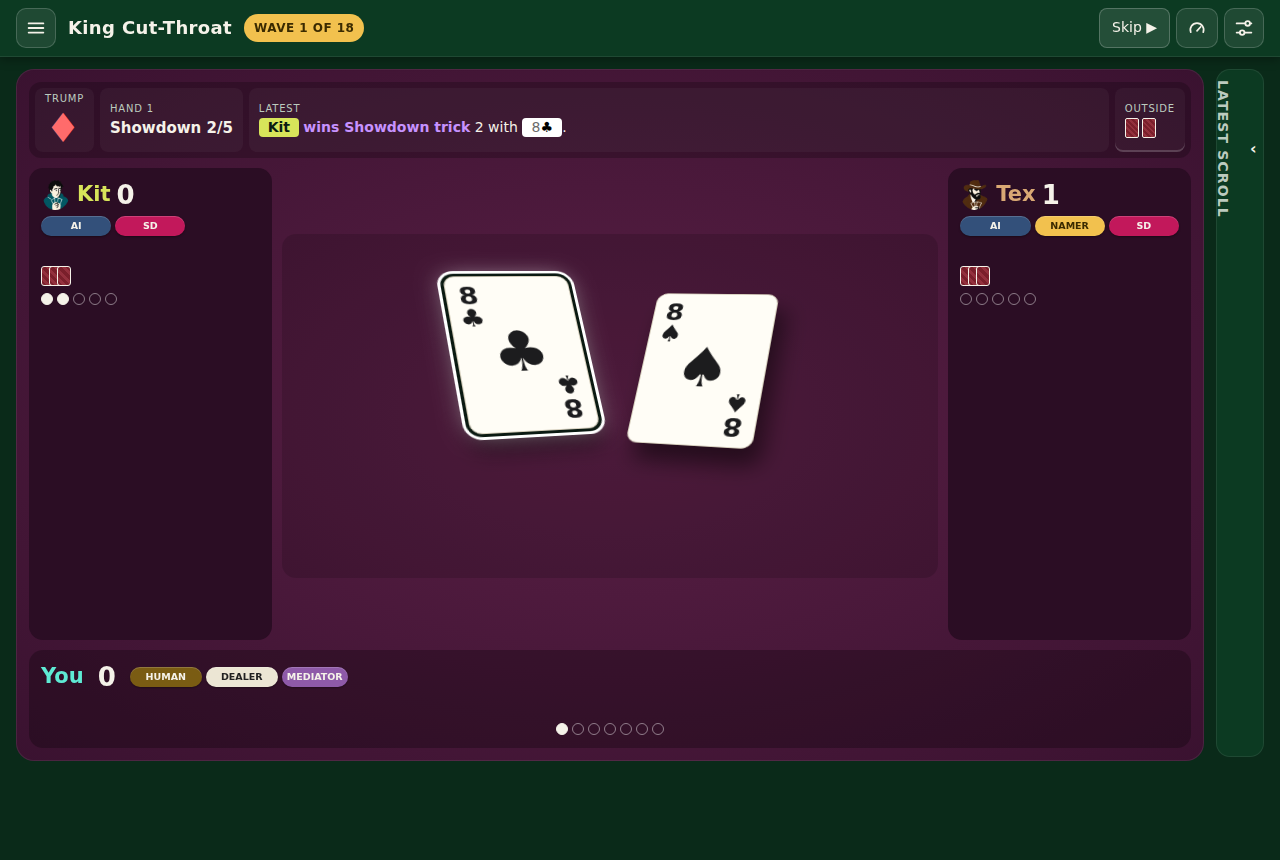
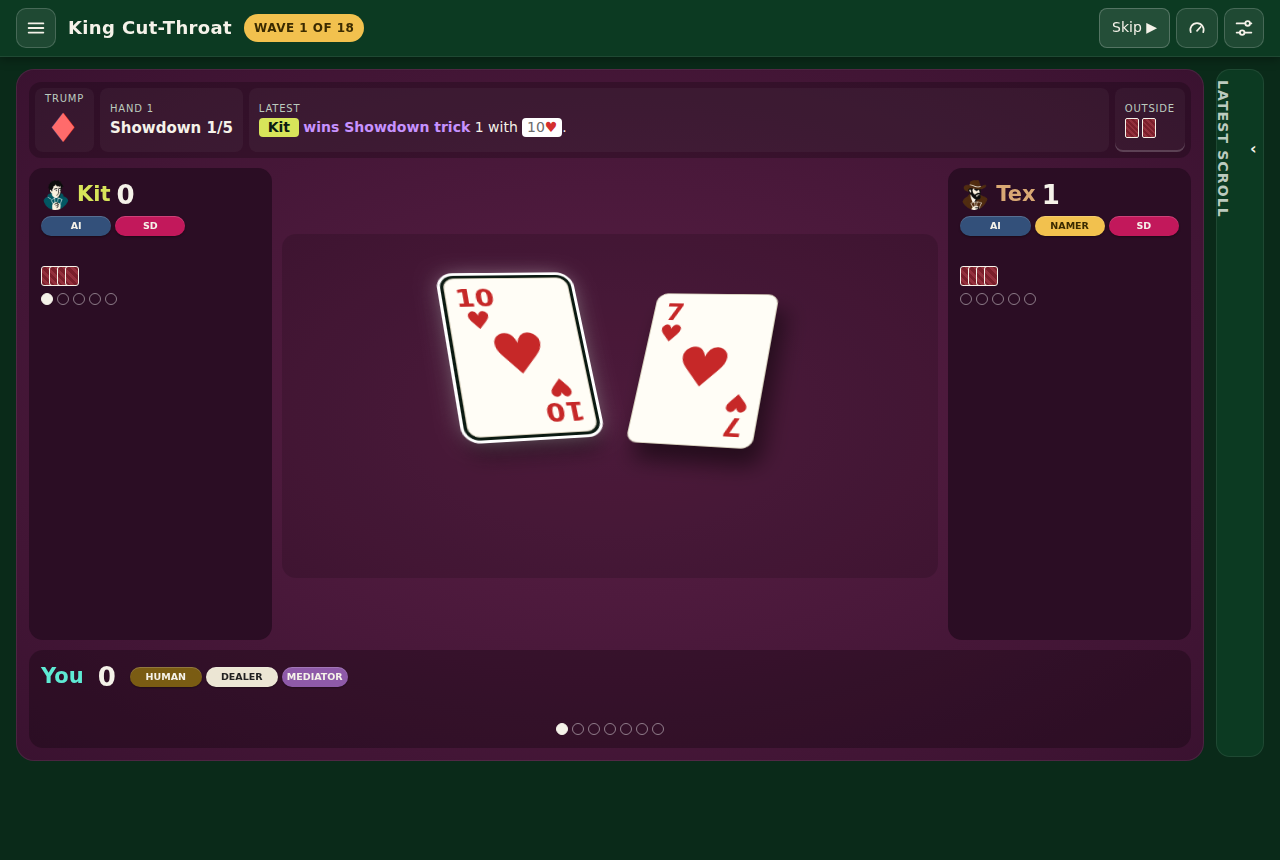
v3: fix trick-end card layering; add a layering check
At a trick's end the engine moves the played cards to lastTrick, so the
mockup lost the play order and stacked the cards in page order (your
card could cover a later one). The stacking now reads lastTrick at a
trick's end; the winning card stays lifted on top.

layering.js renders 84 trick moments from six games (mid-trick, trick
end, Showdown) and samples the pixels where cards overlap: 360 samples,
0 wrong. Against the old layer it flags the 4 trick ends that were
stacked wrong.

Claude-Session: https://claude.ai/code/session_01QkpazkapUFZWg4SWZB1dDA

diff --git a/mockups/layering.js b/mockups/layering.js
@@ -1,0 +1,53 @@
+/* Check: cards layer in play order. For many trick moments across seeds (mid-trick, trick end, Showdown), render the
+   v3 layer and sample the pixel where each pair of cards overlaps: the card on top there must be the one played later.
+   At a trick's end the winning card is lifted above all. Your empty slot, still to play, sits above every card.
+   Run: cd mockups && NODE_PATH=$(npm root -g) PW_CHROMIUM=/opt/pw-browsers/chromium node layering.js */
+const { serve, launch, openPage, run } = require('../tests/lib/browser');
+const fs = require('fs'), ADV = fs.readFileSync(__dirname + '/' + (process.env.LAYER || 'advanced3.js'), 'utf8');
+(async () => {
+  const srv = await serve(), browser = await launch(); let fails = 0, checks = 0, moments = 0;
+  try {
+    const { page } = await openPage(browser, srv.url);
+    const view = await browser.newPage(); await view.setViewportSize({ width: 1280, height: 860 });
+    for (let seed = 1; seed <= 6; seed++) {
+      await run(page, `KCT.App.newGame(${seed}, 1); speed('instant');`, null, ['drive.js']);
+      for (let k = 0; k < 14; k++) {
+        const r = await run(page, `
+          const ok = () => { const s = app.state; return (s.phase === P.TRICK_PLAY || s.phase === P.SHOWDOWN_PLAY) && s.trick.plays.length >= 1
+            || s.phase === P.TRICK_DONE || s.phase === P.SHOWDOWN_TRICK_DONE; };
+          const why = await drive(ok, 60000); if (why !== 'stop') return { why };
+          speed('slow'); await sleep(250);
+          const s = app.state, html = '<!doctype html>' + document.documentElement.outerHTML.replace(/<script[\\s\\S]*?<\\/script>/g, '').replace(/ enter"/g, '"');
+          const done = /rickDone/.test(s.phase), plays = done ? s.lastTrick.plays : s.trick.plays;
+          const out = { why, phase: s.phase, plays: plays.map(p => p.player), winner: done ? s.lastTrick.winner : null, html,
+            state: { trump: s.trump, handNumber: s.handNumber, trickNumber: s.trickNumber, trick: s.trick, lastTrick: s.lastTrick, phase: s.phase, myOut: [], sdDiscards: 0 } };
+          speed('instant'); const v0 = s.version; await drive(() => app.state.version > v0 + 1, 60000);
+          return out;`, null, ['drive.js']);
+        if (r.why !== 'stop') break;
+        await view.setContent(r.html.replace('<head>', '<head><base href="' + srv.url + '">'));
+        const res = await view.evaluate(([src, st, plays, winner]) => {
+          window.KCT = { App: { app: { state: st } } }; window.__collapsed = true; new Function(src)();
+          const el = p => { const e = document.querySelector('.trick .slot-' + p + ' .card') || document.querySelector('.trick .slot-' + p + ' .empty');
+            return e && getComputedStyle(e).visibility !== 'hidden' && e.offsetWidth ? e : null; };
+          // Expected stacking: play order; the winner (trick end) on top; an empty slot (still to play) on top.
+          const order = plays.slice(); if (winner != null) { order.splice(order.indexOf(winner), 1); order.push(winner); }
+          for (const p of [0, 1, 2]) if (!order.includes(p) && el(p)) order.push(p);
+          const bad = []; let n = 0;
+          for (let i = 0; i < order.length; i++) for (let j = i + 1; j < order.length; j++) {
+            const a = el(order[i]), b = el(order[j]); if (!a || !b) continue;
+            const ra = a.getBoundingClientRect(), rb = b.getBoundingClientRect();
+            const x0 = Math.max(ra.left, rb.left), x1 = Math.min(ra.right, rb.right), y0 = Math.max(ra.top, rb.top), y1 = Math.min(ra.bottom, rb.bottom);
+            if (x1 - x0 < 6 || y1 - y0 < 6) continue;
+            const pts = [[(x0 + x1) / 2, (y0 + y1) / 2], [x0 + 3, y0 + 3], [x1 - 3, y1 - 3]];
+            for (const [x, y] of pts) { const hit = document.elementFromPoint(x, y); const top = hit && hit.closest('.slot');
+              if (!top || !(a.closest('.slot') === top || b.closest('.slot') === top)) continue; n++;
+              if (top !== b.closest('.slot')) { bad.push('seat ' + order[i] + ' over seat ' + order[j]); break; } }
+          }
+          return { n, bad };
+        }, [ADV, r.state, r.plays, r.winner]);
+        moments++; checks += res.n; if (res.bad.length) { fails++; console.log('seed', seed, r.phase, 'plays', r.plays.join('>'), 'winner', r.winner, 'BAD:', res.bad.join('; ')); }
+      }
+    }
+    console.log(moments + ' trick moments, ' + checks + ' overlap samples, ' + fails + ' moments with a wrong layer');
+  } finally { await browser.close(); srv.close(); }
+})().catch(e => { console.error(e); process.exitCode = 1; });

diff --git a/mockups/rare.js b/mockups/rare.js
@@ -35,7 +35,7 @@ const TARGETS = [
             return { flippedHTML: s.flippedId ? R.cardHTML(s.flippedId, null) : '', flipped: s.flippedId, flippedBlocked: s.flippedBlocked,
               bids: [0, 1, 2].map(p => v.bidLog.filter(b => b.player === p).map(b => b.round === 1 ? (b.action === 'accept' ? 'accepted' : 'passed') + ' round 1' : (b.action === 'name' ? 'named ' + sym[b.suit] : 'passed') + ' round 2')),
               voids: v.voids.map(x => x.map(c => sym[c] || c)), myOut: v.myOut, won,
-              cardHTML: Object.fromEntries([].concat(v.myOut, pl.map(x => x.card)).map(id => [id, R.cardHTML(id, s.trump)])) }; })(), state: { trump: s.trump, handNumber: s.handNumber, trickNumber: s.trickNumber, trick: s.trick, phase: s.phase, myOut: KCT.buildView(s, 0).myOut, sdDiscards: s.showdown && s.showdown.active ? s.showdown.discards.length : 0 } } };`, null, ['drive.js']);
+              cardHTML: Object.fromEntries([].concat(v.myOut, pl.map(x => x.card)).map(id => [id, R.cardHTML(id, s.trump)])) }; })(), state: { trump: s.trump, handNumber: s.handNumber, trickNumber: s.trickNumber, trick: s.trick, lastTrick: s.lastTrick, phase: s.phase, myOut: KCT.buildView(s, 0).myOut, sdDiscards: s.showdown && s.showdown.active ? s.showdown.discards.length : 0 } } };`, null, ['drive.js']);
         if (!r.name) break;
         got[r.name] = true; snaps.push(r); console.log('seed', seed, r.name);
         if (r.name === '14-game-over') break;

diff --git a/mockups/remaining.js b/mockups/remaining.js
@@ -38,7 +38,7 @@ const TARGETS = [
             return { flippedHTML: s.flippedId ? R.cardHTML(s.flippedId, null) : '', flipped: s.flippedId, flippedBlocked: s.flippedBlocked,
               bids: [0, 1, 2].map(p => v.bidLog.filter(b => b.player === p).map(b => b.round === 1 ? (b.action === 'accept' ? 'accepted' : 'passed') + ' round 1' : (b.action === 'name' ? 'named ' + sym[b.suit] : 'passed') + ' round 2')),
               voids: v.voids.map(x => x.map(c => sym[c] || c)), myOut: v.myOut, won,
-              cardHTML: Object.fromEntries([].concat(v.myOut, pl.map(x => x.card)).map(id => [id, R.cardHTML(id, s.trump)])) }; })(), state: { trump: s.trump, handNumber: s.handNumber, trickNumber: s.trickNumber, trick: s.trick, phase: s.phase, myOut: KCT.buildView(s, 0).myOut, sdDiscards: s.showdown && s.showdown.active ? s.showdown.discards.length : 0 } } };`, null, ['drive.js']);
+              cardHTML: Object.fromEntries([].concat(v.myOut, pl.map(x => x.card)).map(id => [id, R.cardHTML(id, s.trump)])) }; })(), state: { trump: s.trump, handNumber: s.handNumber, trickNumber: s.trickNumber, trick: s.trick, lastTrick: s.lastTrick, phase: s.phase, myOut: KCT.buildView(s, 0).myOut, sdDiscards: s.showdown && s.showdown.active ? s.showdown.discards.length : 0 } } };`, null, ['drive.js']);
         if (!r.name) break;
         got[r.name] = true; snaps.push(r); console.log('seed', seed, r.name);
         if (r.name === '14-game-over') break;

diff --git a/mockups/phases.js b/mockups/phases.js
@@ -46,7 +46,7 @@ const TARGETS = [
             return { flippedHTML: s.flippedId ? R.cardHTML(s.flippedId, null) : '', flipped: s.flippedId, flippedBlocked: s.flippedBlocked,
               bids: [0, 1, 2].map(p => v.bidLog.filter(b => b.player === p).map(b => b.round === 1 ? (b.action === 'accept' ? 'accepted' : 'passed') + ' round 1' : (b.action === 'name' ? 'named ' + sym[b.suit] : 'passed') + ' round 2')),
               voids: v.voids.map(x => x.map(c => sym[c] || c)), myOut: v.myOut, won,
-              cardHTML: Object.fromEntries([].concat(v.myOut, pl.map(x => x.card)).map(id => [id, R.cardHTML(id, s.trump)])) }; })(), state: { trump: s.trump, handNumber: s.handNumber, trickNumber: s.trickNumber, trick: s.trick, phase: s.phase, myOut: KCT.buildView(s, 0).myOut, sdDiscards: s.showdown && s.showdown.active ? s.showdown.discards.length : 0 } };
+              cardHTML: Object.fromEntries([].concat(v.myOut, pl.map(x => x.card)).map(id => [id, R.cardHTML(id, s.trump)])) }; })(), state: { trump: s.trump, handNumber: s.handNumber, trickNumber: s.trickNumber, trick: s.trick, lastTrick: s.lastTrick, phase: s.phase, myOut: KCT.buildView(s, 0).myOut, sdDiscards: s.showdown && s.showdown.active ? s.showdown.discards.length : 0 } };
         speed('fast');
         return { why, name, html, vars };`, null, ['drive.js']);
       if (r.why !== 'stop') { console.log('end:', r.why); break; }

diff --git a/mockups/panels.js b/mockups/panels.js
@@ -29,7 +29,7 @@ const TARGETS = [['15-panels', `s.phase === P.TRICK_PLAY && mine && s.trickNumbe
             return { flippedHTML: s.flippedId ? R.cardHTML(s.flippedId, null) : '', flipped: s.flippedId, flippedBlocked: s.flippedBlocked,
               bids: [0, 1, 2].map(p => v.bidLog.filter(b => b.player === p).map(b => b.round === 1 ? (b.action === 'accept' ? 'accepted' : 'passed') + ' round 1' : (b.action === 'name' ? 'named ' + sym[b.suit] : 'passed') + ' round 2')),
               voids: v.voids.map(x => x.map(c => sym[c] || c)), myOut: v.myOut, won,
-              cardHTML: Object.fromEntries([].concat(v.myOut, pl.map(x => x.card)).map(id => [id, R.cardHTML(id, s.trump)])) }; })(), state: { trump: s.trump, handNumber: s.handNumber, trickNumber: s.trickNumber, trick: s.trick, phase: s.phase, myOut: KCT.buildView(s, 0).myOut, sdDiscards: 0 } } };`, null, ['drive.js']);
+              cardHTML: Object.fromEntries([].concat(v.myOut, pl.map(x => x.card)).map(id => [id, R.cardHTML(id, s.trump)])) }; })(), state: { trump: s.trump, handNumber: s.handNumber, trickNumber: s.trickNumber, trick: s.trick, lastTrick: s.lastTrick, phase: s.phase, myOut: KCT.buildView(s, 0).myOut, sdDiscards: 0 } } };`, null, ['drive.js']);
         if (!r.name) break;
         got[r.name] = true; snaps.push(r); console.log('seed', seed, r.name);
         break;

diff --git a/mockups/profile.js b/mockups/profile.js
@@ -29,7 +29,7 @@ const TARGETS = [['15-panels', `s.phase === P.TRICK_PLAY && mine && s.trickNumbe
             return { flippedHTML: s.flippedId ? R.cardHTML(s.flippedId, null) : '', flipped: s.flippedId, flippedBlocked: s.flippedBlocked,
               bids: [0, 1, 2].map(p => v.bidLog.filter(b => b.player === p).map(b => b.round === 1 ? (b.action === 'accept' ? 'accepted' : 'passed') + ' round 1' : (b.action === 'name' ? 'named ' + sym[b.suit] : 'passed') + ' round 2')),
               voids: v.voids.map(x => x.map(c => sym[c] || c)), myOut: v.myOut, won,
-              cardHTML: Object.fromEntries([].concat(v.myOut, pl.map(x => x.card)).map(id => [id, R.cardHTML(id, s.trump)])) }; })(), state: { trump: s.trump, handNumber: s.handNumber, trickNumber: s.trickNumber, trick: s.trick, phase: s.phase, myOut: KCT.buildView(s, 0).myOut, sdDiscards: 0 } } };`, null, ['drive.js']);
+              cardHTML: Object.fromEntries([].concat(v.myOut, pl.map(x => x.card)).map(id => [id, R.cardHTML(id, s.trump)])) }; })(), state: { trump: s.trump, handNumber: s.handNumber, trickNumber: s.trickNumber, trick: s.trick, lastTrick: s.lastTrick, phase: s.phase, myOut: KCT.buildView(s, 0).myOut, sdDiscards: 0 } } };`, null, ['drive.js']);
         if (!r.name) break;
         got[r.name] = true; snaps.push(r); console.log('seed', seed, r.name);
         break;

diff --git a/mockups/shot5.js b/mockups/shot5.js
@@ -30,7 +30,7 @@ const fs = require('fs'), path = require('path'), ADV = fs.readFileSync(__dirnam
             return { flippedHTML: s.flippedId ? R.cardHTML(s.flippedId, null) : '', flipped: s.flippedId, flippedBlocked: s.flippedBlocked,
               bids: [0, 1, 2].map(p => v.bidLog.filter(b => b.player === p).map(b => b.round === 1 ? (b.action === 'accept' ? 'accepted' : 'passed') + ' round 1' : (b.action === 'name' ? 'named ' + sym[b.suit] : 'passed') + ' round 2')),
               voids: v.voids.map(x => x.map(c => sym[c] || c)), myOut: v.myOut, won,
-              cardHTML: Object.fromEntries([].concat(v.myOut, pl.map(x => x.card)).map(id => [id, R.cardHTML(id, s.trump)])) }; })(), state: { trump: s.trump, handNumber: s.handNumber, trickNumber: s.trickNumber, trick: s.trick, phase: s.phase,
+              cardHTML: Object.fromEntries([].concat(v.myOut, pl.map(x => x.card)).map(id => [id, R.cardHTML(id, s.trump)])) }; })(), state: { trump: s.trump, handNumber: s.handNumber, trickNumber: s.trickNumber, trick: s.trick, lastTrick: s.lastTrick, phase: s.phase,
           myOut: KCT.buildView(s, 0).myOut, sdDiscards: s.showdown.discards.length } };
       return { why, seed, html, vars, scores: s.scores, sd: s.showdown.tricksWon };`, null, ['drive.js']);
     console.log('seed', r.seed, r.why, 'scores', r.scores, 'sd tricks', r.sd);

diff --git a/mockups/advanced3.js b/mockups/advanced3.js
@@ -290,7 +290,8 @@ $('#table').insertAdjacentHTML('afterbegin', '<section class="info" aria-label="
   '</section>');
 
 // Trick stacking: each card sits above the cards played before it; your empty slot, still to play, is on top.
-const plays = (st.trick && st.trick.plays) || [];
+// At a trick's end the engine moves the cards to lastTrick, so the play order comes from there.
+const plays = /trickDone|showdownTrickDone/i.test(st.phase || '') && st.lastTrick ? st.lastTrick.plays : ((st.trick && st.trick.plays) || []);
 plays.forEach((pl, i) => { const sl = $('.trick .slot-' + pl.player); if (sl) sl.style.zIndex = String(i + 1); });
 for (const sl of $$('.trick .slot')) if (!sl.style.zIndex) sl.style.zIndex = String(plays.length + 1);
 
